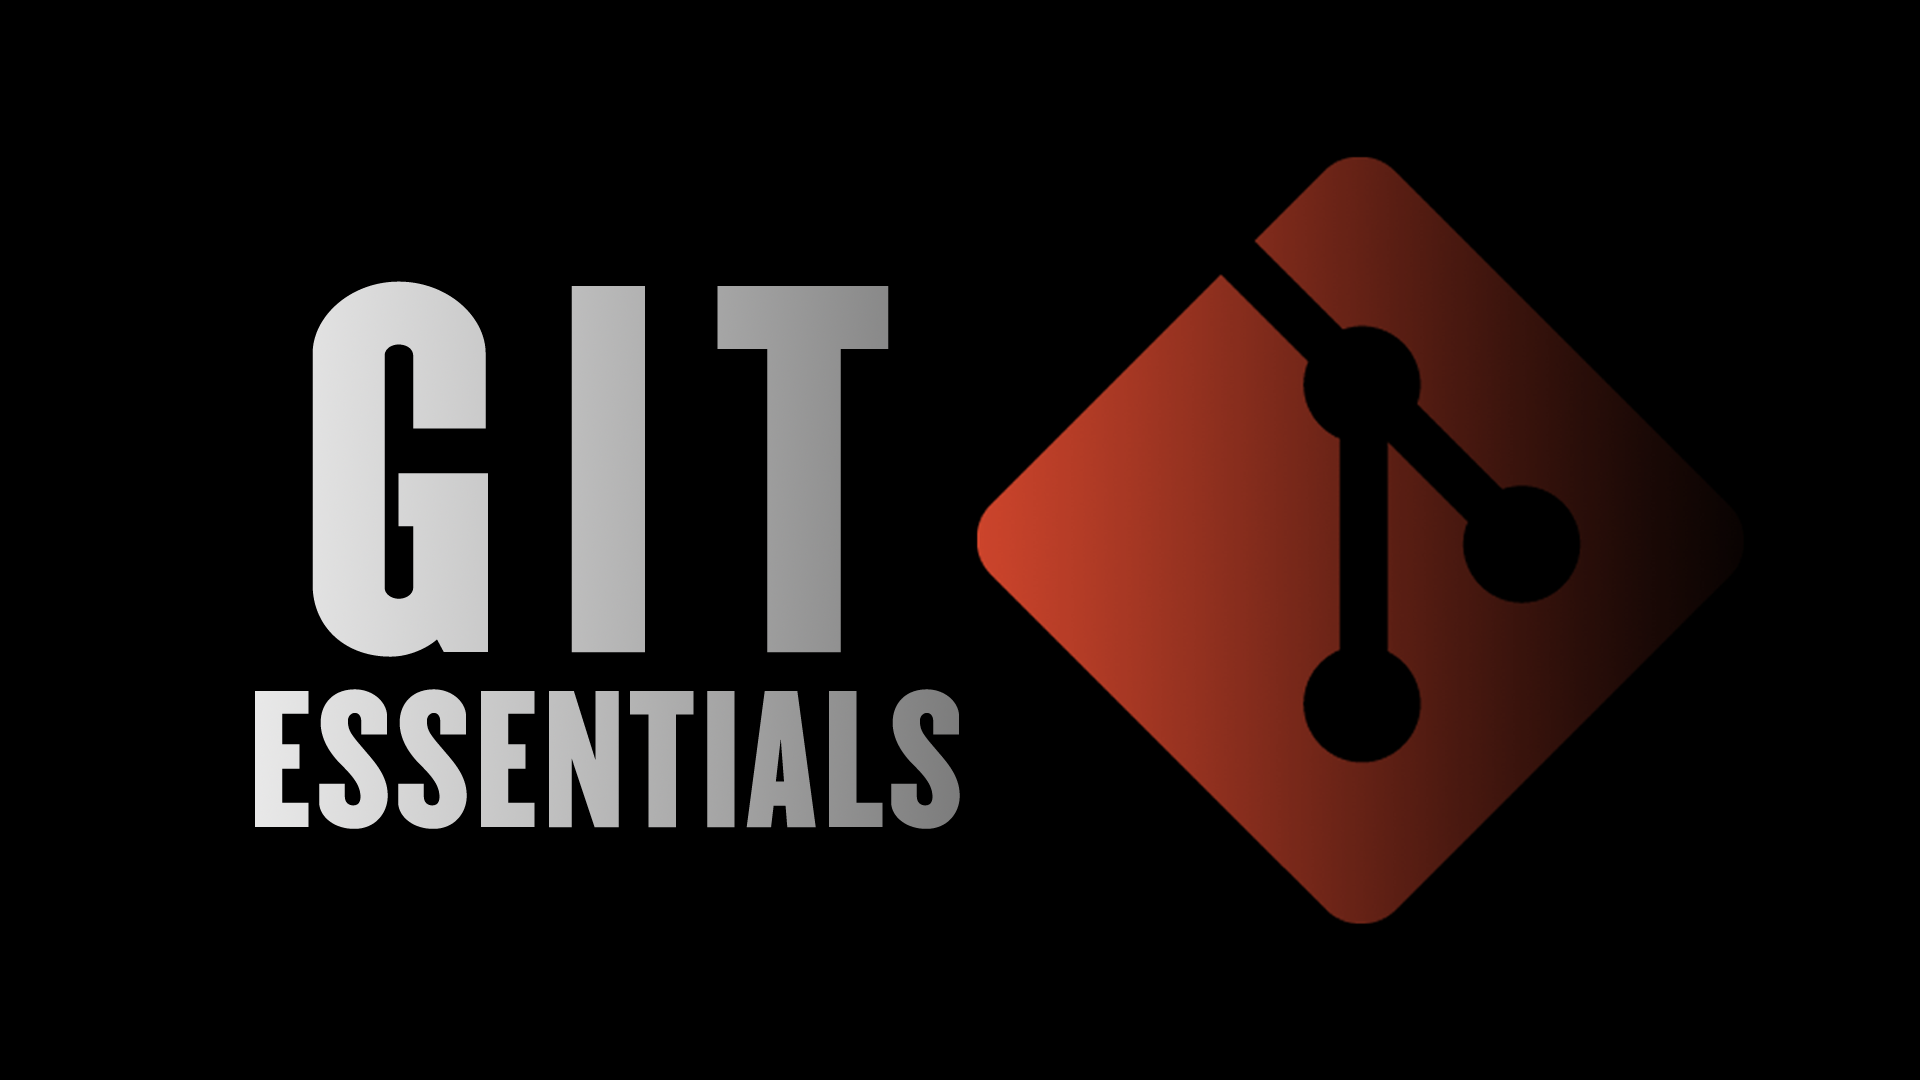
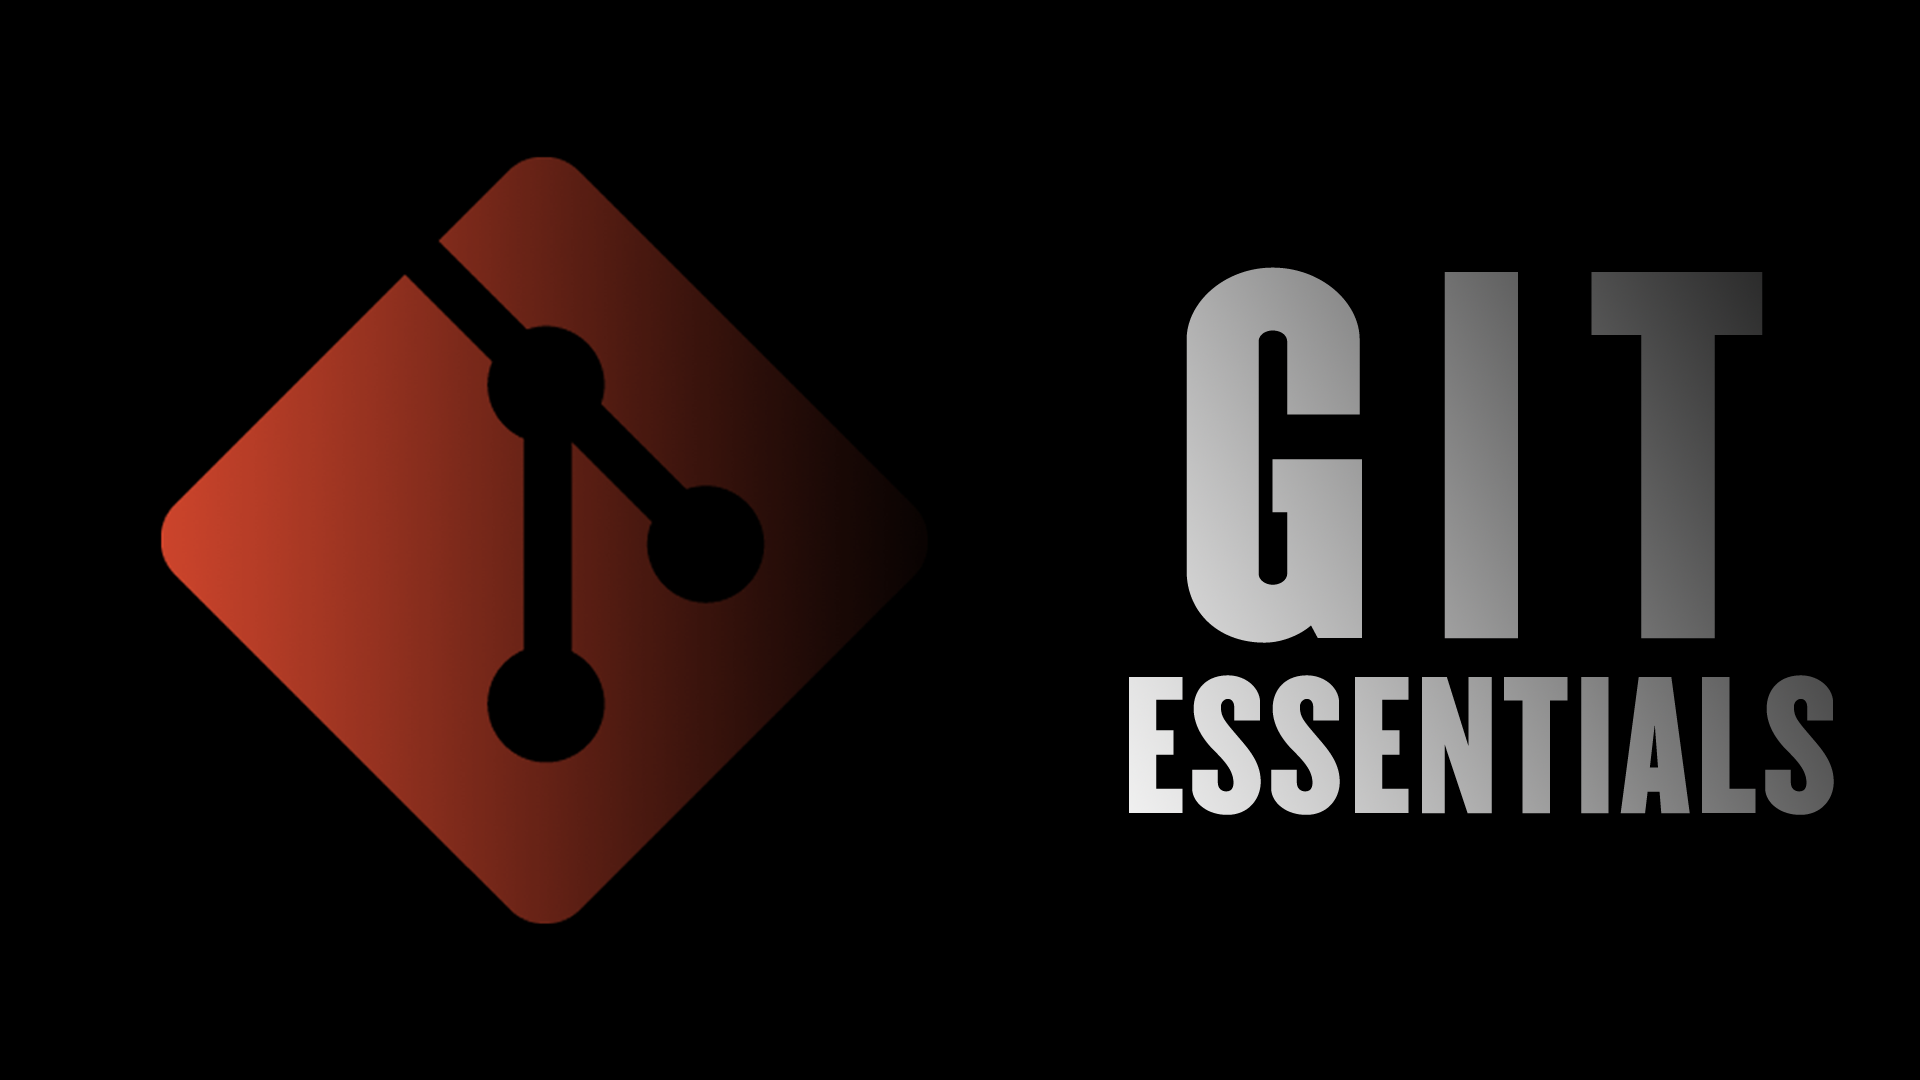
Redesign: Changed alignment of text

diff --git a/zbunker/templates/home.html b/zbunker/templates/home.html
@@ -163,9 +163,9 @@
           <div class="bundlewrapper bw-right later-image">
             <a href="{{ url_for('git') }}" style="width:100%">
               <div class="imgwrap">
-                <img class="imagey" src="../static/img/git-fade.png" style="width:100%">
+                <img class="imagey" src="../static/img/fade-git.png" style="width:100%">
               </div>
-                <div class="imgtxt">
+                <div class="imgtxt" style="margin-top: -110px;">
                   git essentials
                 </div>
             </a>
